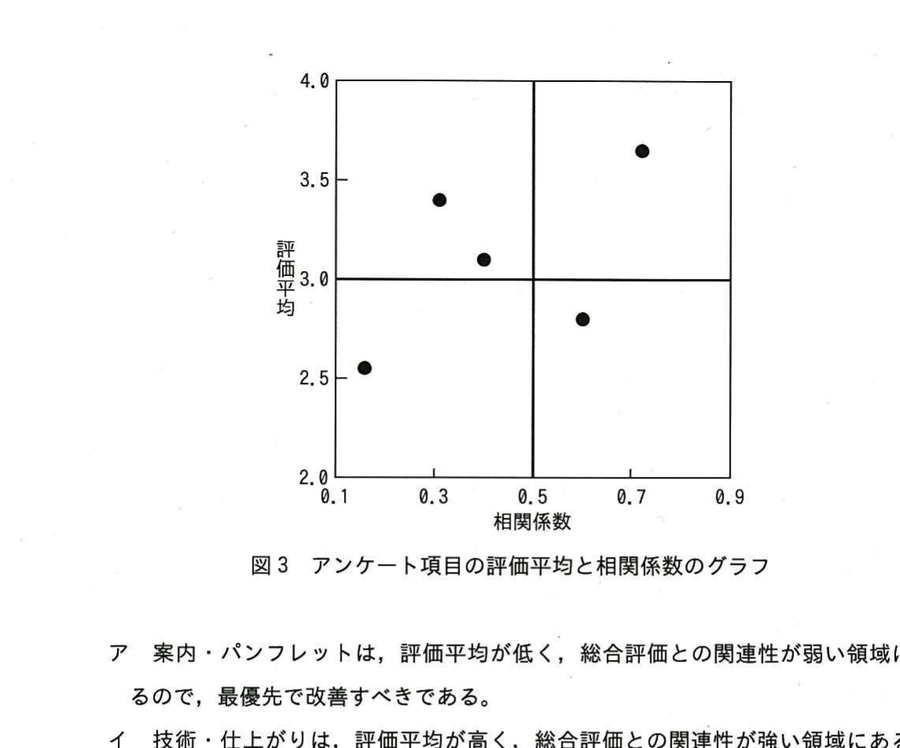
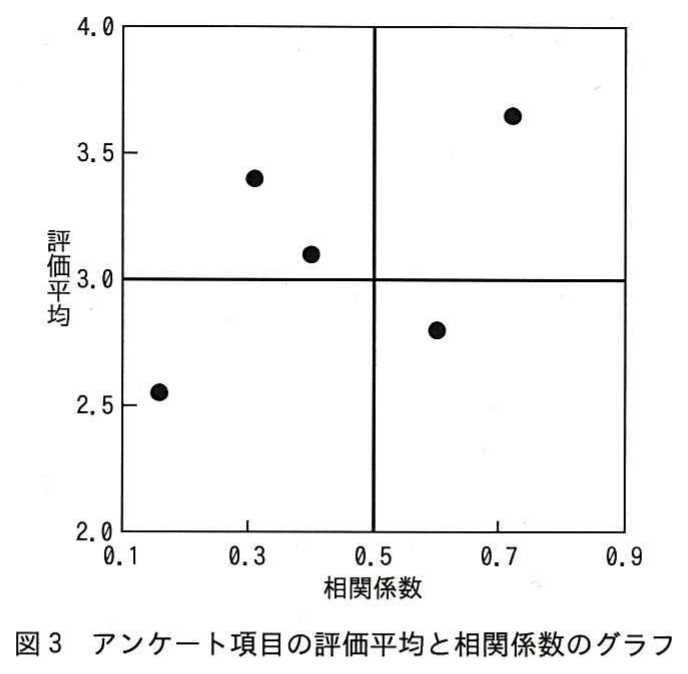
data(quiz): S130 図 lane — 選択肢図化 4 題 (2013h25h-q068 / 2010h22a-q066 / 2009h21a-q048 / 2010h22h-q088、源頁から肢ごと実測裁断、図L 表記)、q088 題幹例示図を figure_type=stem で残置 (build guard + crosscheck A6/B6)、2015h27a-q088 bbox 是正。correct_answer 0、Rule D PASS-with-notes
Claude-Session: https://claude.ai/code/session_017yK7cBkoy3fmeBzxM4mkut

diff --git a/apps/web/src/components/quiz/__tests__/QuizRichText.ssr.test.ts b/apps/web/src/components/quiz/__tests__/QuizRichText.ssr.test.ts
@@ -69,6 +69,17 @@ describe("ChoiceBody (SSR)", () => {
     expect(out).toContain("src=\"/quiz-figures/2014h26a-q046-cA.webp\"");
     expect(out).toContain("alt=\"図ア\"");
   });
+  it("S130: choice figures from the source page; the stem example figure (figure_type=stem) coexists (2010h22h-q088 / 2013h25h-q068)", () => {
+    const q = byId.get("2010h22h-q088")! as (typeof Q)[number] & { figure_type: string | null };
+    expect(q.figure).toBe("2010h22h-q088");
+    expect(q.figure_type).toBe("stem");
+    expect(q.choice_figures?.["イ"]).toBe("2010h22h-q088-cB");
+    const q68 = byId.get("2013h25h-q068")!;
+    expect(q68.figure).toBeNull();
+    const out = html(h(ChoiceBody, { text: "Figure ア", figure: q68.choice_figures!["ア"] }));
+    expect(out).toContain("src=\"/quiz-figures/2013h25h-q068-cA.webp\"");
+    expect(out).toContain("alt=\"Figure ア\"");
+  });
   it("plain choice stays a plain <span> (no pre-wrap class) so the ~2600 ordinary questions are unchanged", () => {
     const out = html(h(ChoiceBody, { text: "リスク分析 → リスク評価 → リスク対応" }));
     expect(out).toBe("<span>リスク分析 → リスク評価 → リスク対応</span>");

diff --git a/evidence/quiz_choicefig_S130.md b/evidence/quiz_choicefig_S130.md
@@ -1,0 +1,78 @@
+# S130 図 lane — 選択肢図化 4 題 + 2015h27a-q088 bbox 是正 (規則 A 全数核験)
+
+**目的**: S129 で答え漏洩・失真のある選択肢の図の言語化を中立テキスト「図ア〜図エ」に置換した暫定処置 (D-163 / D-168) の本処置。源の選択肢図そのものを学習者に見せる。
+**脚本**: `scripts/quiz-figfix-S130-choicefig.mjs` (冪等: 1 回目 applied 60 field changes、2 回目 **0**)。下流 `build-quiz-corpus.mjs` → `build-quiz-figures.mjs`。
+**データ形**: D-144 段 2 precedent (`quiz-choicefig-D144s2.mjs`、既存 6 題) と同じ — raw (question_bank + by_year) `choice_figure_paths` = `figures/<id>-c{A..D}.png`、選択肢テキスト jp「図L」/ zh「图L」/ en「Figure L」(translations + `.phase1`)、旧テキストは `choices_text_retired`、複合図 `figure_path` は `composite_figure_path_retired` に退避して null。
+**裁断方法 (precedent との差)**: D144s2 は複合図を 2×2 の空白帯で自動分割したが、q068 は 1×4 縦積みのため使えない。本 lane は **源ページ** (`data/ip/exams/pages/<exam>/page-NN.png`) から、行・列のインク投影 (グレー < 140) で実測した肢ごとの px 矩形を切り出す → trim(40) → 白 14px 余白 (D144s2 と同じ)。各矩形は字母 ア〜エ を含み (既存 6 題と同じ見え方、D144s2 MINOR-6)、隣の肢・題幹・次問・ページ番号を含まない。
+
+## 肢ごとの bbox (源ページ px、[left, top, right, bottom])
+
+| id | 源ページ (WxH) | インク実測 (行帯 / 列帯) | ア | イ | ウ | エ | 出力 (WxH) |
+|---|---|---|---|---|---|---|---|
+| 2013h25h-q068 | page-29 (1432x2026) | 行 465-733 / 783-1077 / 1125-1393 / 1441-1743、列 字母 208-231 + 図 266-1224 (1×4 縦積み) | 190,450,1245,758 | 190,760,1245,1101 | 190,1103,1245,1417 | 190,1419,1245,1765 | 1042x297 / 1017x323 / 959x297 / 977x331 |
+| 2010h22h-q088 | page-36 (1419x2020) | 例示図 x 505-951 / y 891-1164、肢 行 1235-1510 / 1564-1835、列 205-714 / 字母 732-754 + 図 794-1242 | 190,1215,723,1537 | 723,1215,1260,1537 | 190,1540,723,1855 | 723,1540,1260,1855 | 538x301 / 539x304 / 537x301 / 539x299 |
+| 2010h22a-q066 | page-25 (1416x2020) | 行 1233-1472 / 1540-1778、列 字母 195-216 + 図 259-575 / 字母 727-749 + 図 791-1107 | 180,1210,680,1506 | 700,1210,1140,1506 | 180,1506,680,1800 | 700,1506,1140,1800 | 335x268 / 335x268 / 409x267 / 411x266 |
+| 2009h21a-q048 | page-18 (1439x2019) | 行 338-647 / 709-1014、列 字母 207-231 + 図 264-622 / 字母 737-764 + 図 794-1164 (x=710・1213 以右は走査の点ノイズ) | 190,325,690,678 | 725,325,1185,678 | 190,680,690,1040 | 725,680,1185,1040 | 442x334 / 443x338 / 441x332 / 442x326 |
+
+**2010h22h-q088 の題幹例示図**: 題幹が「図の時刻 1 から時刻 5 …」と例示図 (結果 11 01 00 10 11 の波形) を参照するため、figure_path を消すと解答不能になる。例示図だけを [480,870,980,1190] で源ページから再裁断 (trim + 16px → 480x306) して `figures/2010h22h-q088.png` に残し、`figure_type="stem"`、`figure_bbox_pct` = {0.3383, 0.4307, 0.6906, 0.5891}。旧複合図 (例示図 + 4 肢) は `figures/2010h22h-q088.png.pre-S130cf.bak` に退避 (= `composite_figure_path_retired`)。
+**ガード変更 (唯一のコード変更)**: `build-quiz-corpus.mjs` の「figure_path と choice_figure_paths の二重掛け fail」と crosscheck **A6** の「choice_figures があるのに figure≠null」は、従来 中問の共有図 (`figure_type="shared"` + `figure_group`) だけを例外にしていた。`figure_type="stem"` (選択肢を含まないよう再裁断した題幹の図) を 2 箇所とも例外に追加。描画は 2014h26a-q086 (共有図 + 選択肢図) と同じ経路 (QuizSet: `q.figure` の <img> + 各肢 ChoiceBody の <img>)。
+
+## 2015h27a-q088 図の bbox 是正 (S130 reviewer NIT)
+図ページ page-39 (1432x2026、D-145 の図ページ相対)。インク実測: 図3 本体 + キャプション 下端 y=833、選択肢ア 1 行目 上端 y=919、上端 y≈170 に走査の点ノイズ (軸ラベル 4.0 は y≈200)。`figure_bbox_pct` {0.05, 0.05, 0.85, **0.52**} → {0.05, **0.093**, 0.85, **0.43**} (px 72,188,1217,871)、源ページから再裁断 trim + 16px → 688x674。旧図は `figures/2015h27a-q088.png.pre-S130cf.bak`。bank / by_year 両層 (B6)。
+
+## 2018h30h-q054 の判断 — 選択肢図化しない
+源 page-24 実読: 選択肢ア〜エは **a〜d の組合せ表** (要員の数 / 訂正作業 1 件当たりのコスト) で図ではない。4 グラフ a〜d は題幹の図で、現行の複合図 (`figures/2018h30h-q054.png`) にそのまま表示されている。題幹の「[図a] 山型…」等の言語化は図の形を述べるだけで、どの量にどのグラフが対応するか (= 問われている判断) は述べないため答えの漏洩ではない。変更なし。図内の表と `[表]` テキストの二重表示は既登録の NIT-11 クラス (D144s2 evidence) で、ここでは扱わない。
+
+## 全数核験 (N = 4 題 × 4 肢 + 例示図 1 + q088(2015) 1 = 18 図、全数を Read で実読)
+contact sheet (赤枠 = 切り出し境界):
+- `/private/tmp/claude-501/-Volumes-DevSSD-Project-IT-Passport-Learning/38b9b286-d572-4355-b63d-7392c68f7a4f/scratchpad/cf/sheet_q068.png`
+- `/private/tmp/claude-501/-Volumes-DevSSD-Project-IT-Passport-Learning/38b9b286-d572-4355-b63d-7392c68f7a4f/scratchpad/cf/sheet_q088.png` (先頭 = 題幹例示図)
+- `/private/tmp/claude-501/-Volumes-DevSSD-Project-IT-Passport-Learning/38b9b286-d572-4355-b63d-7392c68f7a4f/scratchpad/cf/sheet_q066.png`
+- `/private/tmp/claude-501/-Volumes-DevSSD-Project-IT-Passport-Learning/38b9b286-d572-4355-b63d-7392c68f7a4f/scratchpad/cf/sheet_q048.png`
+- 2015h27a-q088: `data/ip/exams/figures/2015h27a-q088.png` 直接
+
+| id | 結果 |
+|---|---|
+| 2013h25h-q068 | 4/4 PASS: ア ハブ (PC3 台) → ルータ LAN 側 + TV LAN 側直結 / イ インターネットが LAN 側ポートへ・WAN 側ハブに TV / ウ LAN 側 PC2 台・WAN 側ハブに PC・TV・インターネット / エ インターネットがハブ経由で LAN 側・TV は WAN 側。ルータ枠上端・雲の右端・PC 下端の欠け無し、題幹・隣の肢の混入無し |
+| 2010h22h-q088 | 5/5 PASS: 例示図 (振幅 11 の山 → 時刻 3 手前の谷 → 時刻 5 手前の山、軸ラベル「振幅」「時刻」込み、題幹文字・肢の字母の混入無し)、ア〜エ 各波形の軸・破線格子・「時刻」ラベルまで完全、隣列の字母 (イ/エ) の混入無し |
+| 2010h22a-q066 | 4/4 PASS: ア {A→B, C→A, D→B} / イ {A→B, A→C, D→B} / ウ {B→A, A→C, B→D} / エ {A→B, A→C, B→D}。矢頭・丸の欠け無し (explanations の読みと一致) |
+| 2009h21a-q048 | 4/4 PASS: ア 右肩上がり指数曲線 / イ 右肩下がり / ウ V 字 / エ 階段。軸・「設計 製造 テスト 運用」ラベル完全。源の走査点ノイズ数点 (源由来、内容に影響なし) |
+| 2015h27a-q088 | PASS: 図3 + キャプション「図3 アンケート項目の評価平均と相関係数のグラフ」まで、選択肢ア 1 行目は含まない |
+
+## 層の確認
+- questions.json の差分は 4 id のみ (2009h21a-q048 / 2010h22a-q066: figure→null + choice_figures、2010h22h-q088: figure_type=stem + choice_figures + stem_jp (Rule D N2 の言語化除去)、2013h25h-q068: choices_jp 図L + figure→null + choice_figures)。**correct_answer 変更 0**。
+- translations: 2010h22h-q088 の stem_jp_clean / zh / en 題幹 (N2)。2013h25h-q068 の zh/en 選択肢 (図の言語化) → 图L / Figure L。他 3 題は S129 で既に中立。`.phase1/tr_<id>.json` は 4 題とも中立に (q068 は旧い漏洩文「把所有设备都接到集线器上…」、q066 は「（正确）/(correct)」が残っていた — 再 merge 退行の防止)。
+- public/quiz-figures: 新規 WebP 16 枚、削除 3 (q048 / q066 / q068 の複合図)、更新 2 (q088 例示図、2015h27a-q088)。他の WebP は byte 不変。
+- explanations は不変 (解答後の解説が図を描写するのは可。key_guard note の「choice_figures 化は図 lane 待ち」は履歴記述として残す)。
+- 2010h22h-q088 の題幹末尾の例示図の言語化 (源に無い。bank/by_year「[図] 例示図：…」、stem_jp_clean「（図）縦軸は…」、zh「（图）…」、en「(Figure) …」) は Rule D N2 で全層から除去 (下記 §Rule D)。
+
+## ゲート
+| gate | 結果 |
+|---|---|
+| `node scripts/quiz-figfix-S130-choicefig.mjs` ×2 | 1 回目 applied 60 / **2 回目 0** (冪等) |
+| `node scripts/quiz-keys-crosscheck.mjs --require-raw` | ✓ A1–A7, B1–B7 (A6 = 選択肢図 10 題、B6 = 図メタ bank==by_year) |
+| `node scripts/quiz-chumon-groups-build.mjs --check` | registry 一致 |
+| `node scripts/quiz-pagefix-derive-groups.mjs --assert-clean` | SPLIT_FIGURE 0 件、(A)(B) GREEN |
+| tsc --noEmit | 0 |
+| eslint | 0 errors (既存 warning 1: RetroGlossary.tsx tTerm、本 lane 外) |
+| vitest | 563 passed / 2 skipped (新規 SSR テスト 1: q088 の figure_type=stem + choice_figures 共存、q068 の選択肢図 <img> と alt) |
+| next build --turbopack | 成功 |
+
+## Rule D (別 type agent) — PASS-with-notes → 全処置
+| 級 | 指摘 | 処置 |
+|---|---|---|
+| N1 | q068 の出力サイズ欄が実寸と不一致 | 実測 (sharp metadata) で是正: 1042x297 / 1017x323 / 959x297 / 977x331 |
+| N2 | 2010h22h-q088 題幹の例示図言語化が例示図表示後は冗長 (源に無い) | 脚本 `STEM_TAIL` で除去 (assert-before-replace: 末尾が期待文字列と完全一致する時だけ削除、除去済みなら no-op、それ以外は throw)。対象 5 field = question_bank.stem_jp / by_year.stem_jp / translations stem_jp_clean・stem.zh・stem.en (questions.json は build-quiz-corpus で投影)。`.phase1/tr_2010h22h-q088.json` は元から言語化を含まない (確認)。残る題幹: 「…図の時刻 1 から時刻 5 のタイミングで標本化を行い，… “01 00 10 11 01”となる音声信号を示す図はどれか。」— 図への参照「図の時刻」は残り、例示図 (figure_type=stem) がその直下に表示される。本文の他の内容は不変 (除去は末尾段落のみ)。再実行 applied 0 |
+| N3 | A6 の stem 例外が緩い (複合図のまま stem と称せば通る) | crosscheck Layer B (raw) の B6 に追加: figure_type=stem は choice_figure_paths 必須・composite_figure_path_retired が実在ファイル・figure_path と同一でない (committed 層の questions.json は退避パスを持たないため raw 層で検査)。**変異試験 4 種すべて検出**: 退避パス削除 / 実在しないパス / figure_path と同一 / choice_figure_paths 削除 (各回 bank を復元、cmp で同一確認) |
+
+### Rule D 処置後のゲート
+| gate | 結果 |
+|---|---|
+| `quiz-figfix-S130-choicefig.mjs` 再実行 | N2 で applied 5 → 2 回目 **0** |
+| crosscheck --require-raw | ✓ A1–A7, B1–B7 (N3 の stem 検査込み) |
+| chumon --check | 一致 |
+| assert-clean | (A)(B) GREEN |
+| tsc | 0 |
+| eslint | 0 errors (既存 warning 1、lane 外) |
+| vitest | 563 passed / 2 skipped |
+| next build --turbopack | exit 0 |

diff --git a/docs/discussion/2026-10-20-session-130.md b/docs/discussion/2026-10-20-session-130.md
@@ -73,3 +73,9 @@
 - T3 残 2 題 run (`wf_481a3c8a-e3f`) CLEAN 2/2。merge 392/392: **CLEAN 389 / DISCREPANT 3 (0.8%)、19 差分全 cosmetic**。→ T3 fixer (t1-fixer、lock 付与)。
 - **T3 fix 完了** (t1-fixer): 11 採用 / 8 不採用 (q059 PK 注記は描画補助で X2 と同じく保持)、2023r05-q059 zh/en 表名ラベル除去 (caption として描画されていた、jp と同形 tables 1・caption なしを確認)、2019r01a-q002 受取配当金 = 股利收入 / dividend income (応収股利 = 未収債権は誤訳)、2015h27a-q072 zh「（单品）」除去。CLEAN 抽検 0/10。gates PASS。→ Rule D (t3-reviewer、verifier opus)。**訳層照合は全 2900 題完了** (A2b 226 + T1 1298 + T2 985 + T3 392、重複 1)。
 - **T3 Rule D** = **PASS** (NIT 2 ⑨: q059 zh/en PK 注記と jp 下線欠落の非対称 [既存] / q072 bank raw と sidecar の語差)。T3 commit + push。lock 解放。
+- STATE 更新 commit `177f3ac`。**punct-scope** (読点・範囲記号 corpus 走査の設計、read-only) 起動済。**fig-fixer** (選択肢図化 5 題 + 2015h27a-q088 bbox、lock 付与) 起動。5h 42% / weekly 74%。
+- **図 lane 完了** (fig-fixer): 選択肢図化 4 題 (2013h25h-q068 / 2010h22a-q066 / 2009h21a-q048 / 2010h22h-q088、源ページからインク投影で肢ごと実測裁断、D144s2 と同じデータ形)、q088 は題幹例示図を figure_type="stem" で残置 (build-quiz-corpus と crosscheck A6 の例外条件に追加)、2015h27a-q088 bbox 是正 (選択肢ア 1 行目を除外)、2018h30h-q054 は選択肢が組合せ表で図化不要と判断。SSR テスト +1、gates PASS (vitest 563)。→ Rule D (fig-reviewer、code-reviewer opus)。
+- **図 lane Rule D** = **PASS-with-notes** (16 crop + 4 源頁を実読、key 4/4 再導出一致、stem 例外は q088 のみ)。N1 evidence 寸法 / N2 q088 題幹の例示図言語化 (図表示後は冗長) を全層除去 / N3 crosscheck A6 で stem 型に composite_figure_path_retired を必須化 → fig-fixer が lock 内で是正。
+- **punct-scope 完了** (`evidence/quiz_punct_sweep_scope_S130.md`、`scripts/quiz-punct-sweep-S130.mjs` dry-run): 源は全 29 exam で読点 ，(、は 0)、範囲記号は画像で U+FF5E/U+301C を判別不能 (～ は D-155 / X3 と同じ規約選択)。R1 、→， / R3 〜・~→～ = 545 field / 276 file、R2 ASCII ", "→， = 5,431 field (stem の 73%)。保護: 桁区切り・データ列・式・ASCII 引用・擬似コード・英文、中問 probe 窓 8 field、COPY cut marker 1。parse 構造変化 0、A7 probe 50 組 PASS。
+- **D-172 (minor、主 context 判断 D-161)**: D-170 の後日走査として **R1 + R3 を jp 表示層 (stem / choices の 3 jp 層 + sidecar clean) に決定的適用**。R2 (ASCII ", ") は見送り (⑨): 5,431 field と量が大きく価値は字形のみ、machdiff が正規化で見えないため assert だけが頼りになる。解説 jp は対象外 (AI 生成文で源が無い)。zh は対象外。probe 窓内 8 field と COPY marker 1 field は不変 (D-167)。理由: 源は全 exam で ， と確定、exam 内で 、 と ， が混在する状態 (unit ごとの D-170 是正の結果) を解消する。却下: (i) R1〜R3 全量 (ii) 何もしない (unit 是正分との不揃いが残る)。
+- 図 lane N1〜N3 是正済 (q088 題幹末尾の例示図言語化を完全一致時のみ除去、crosscheck B6 に stem 型の退避路径必須 + 変異試験 4/4 検出)。図 lane commit + push → **punct-scope に lock 付与** (D-172 R1+R3 apply)。
